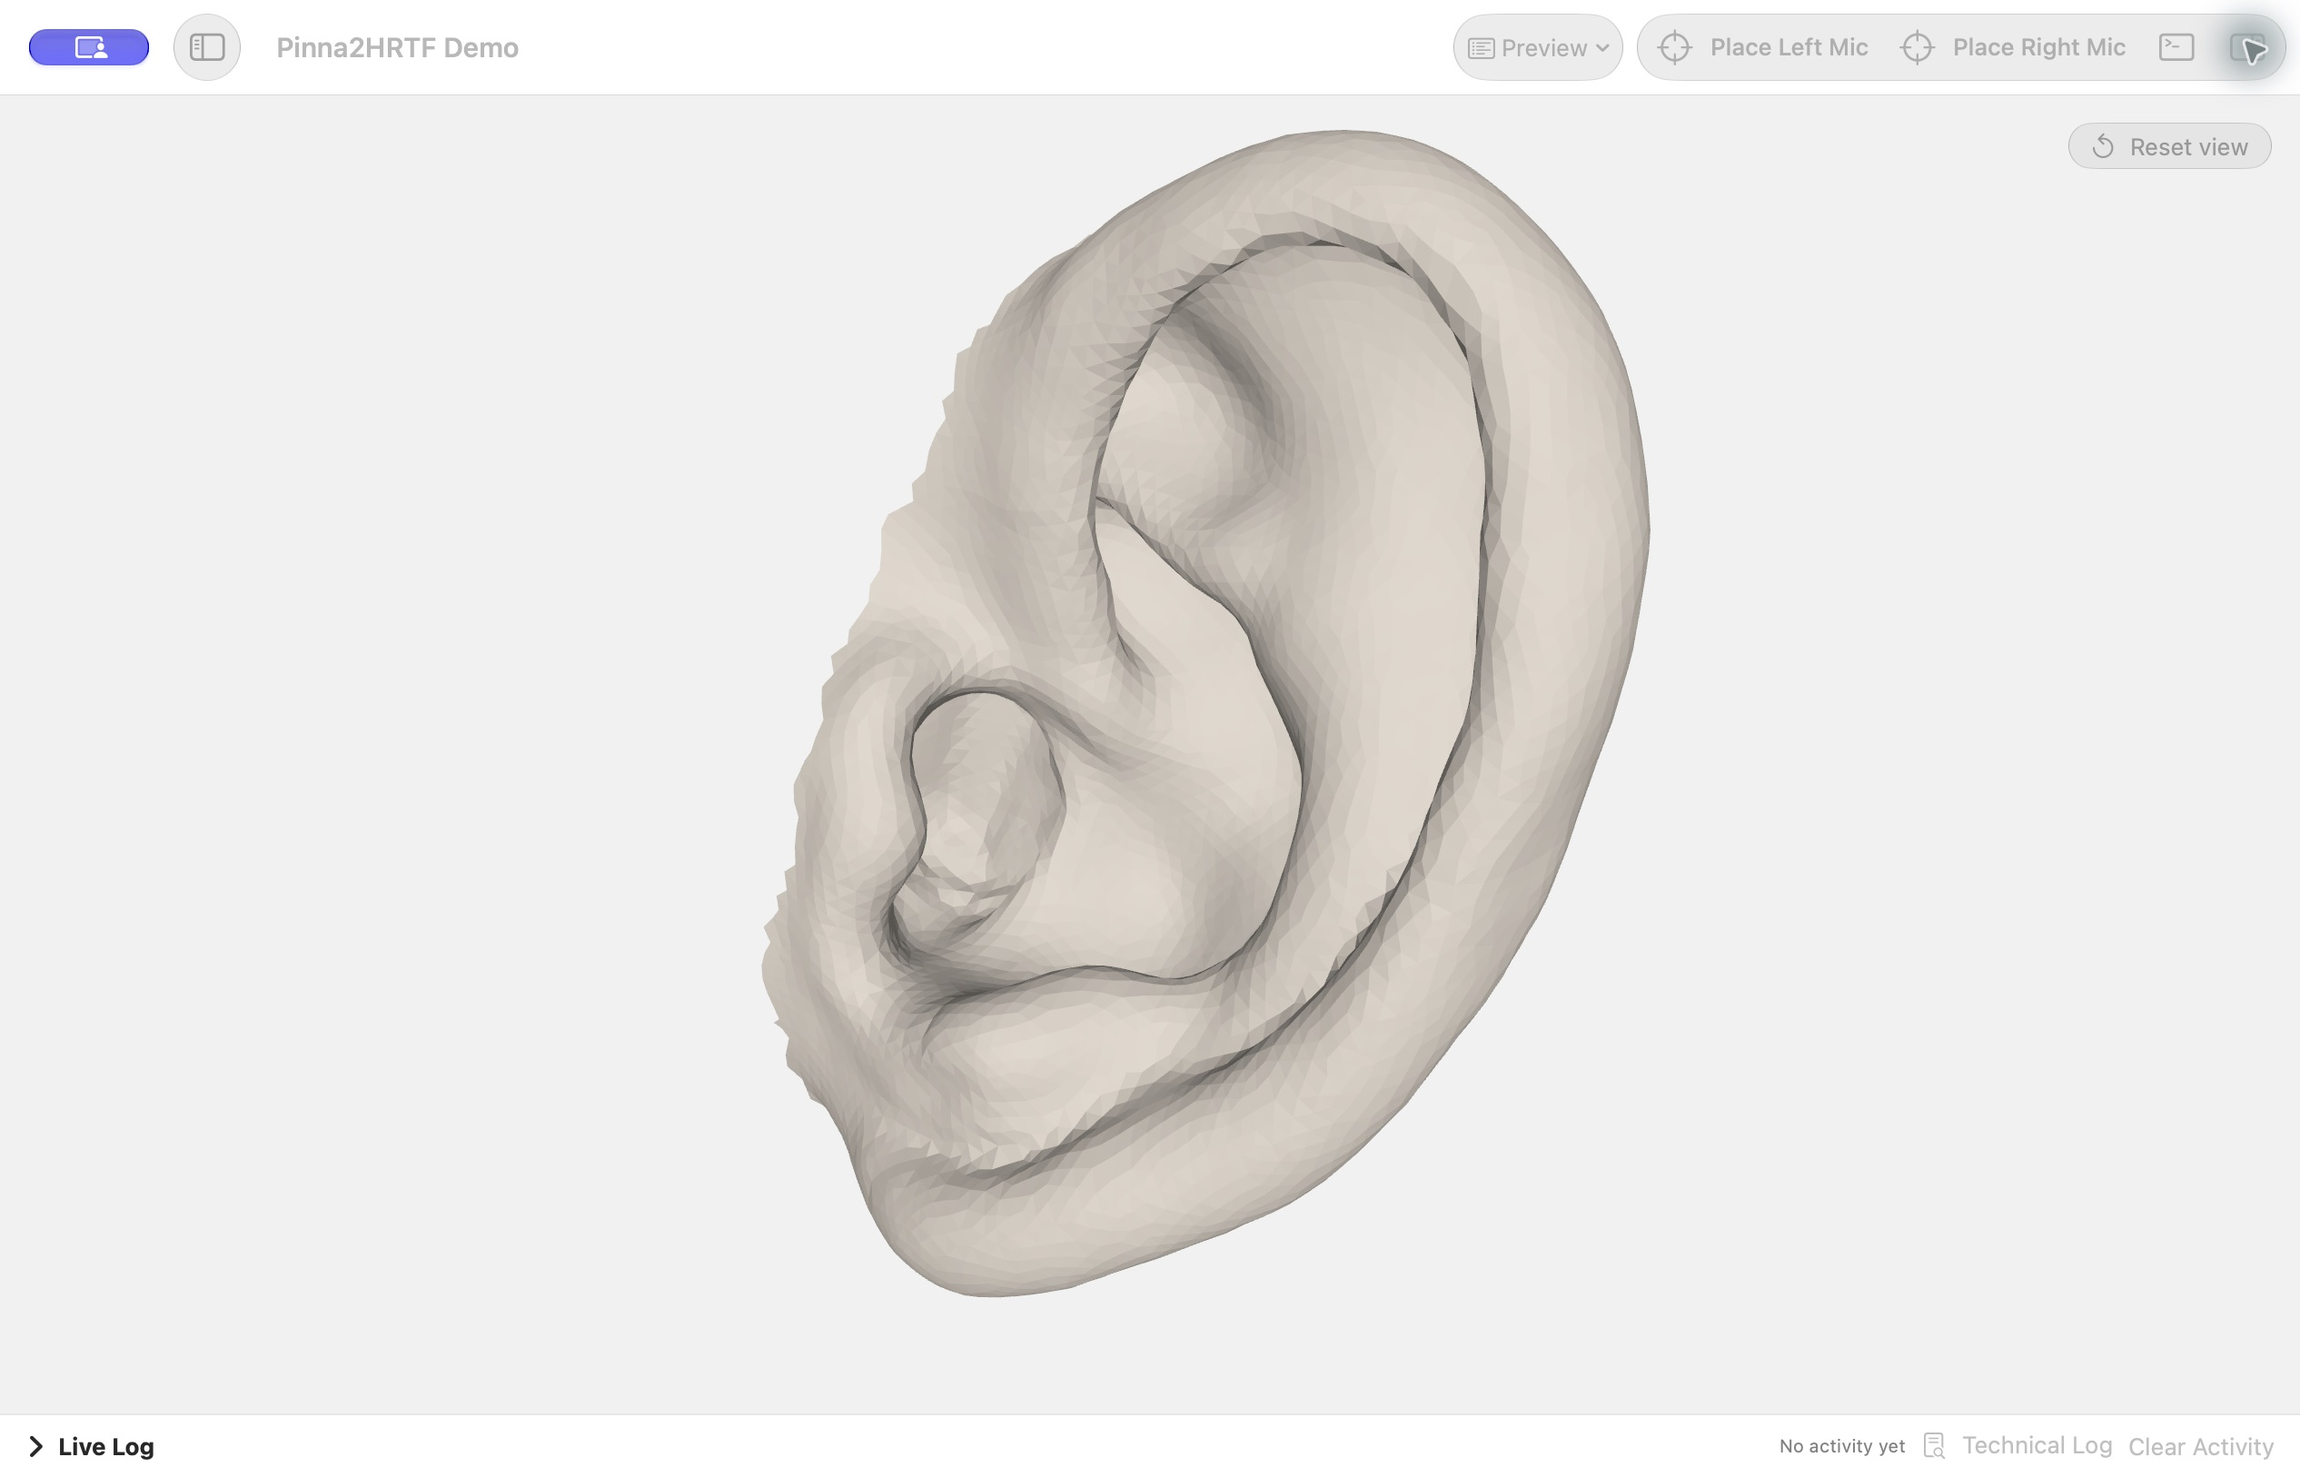
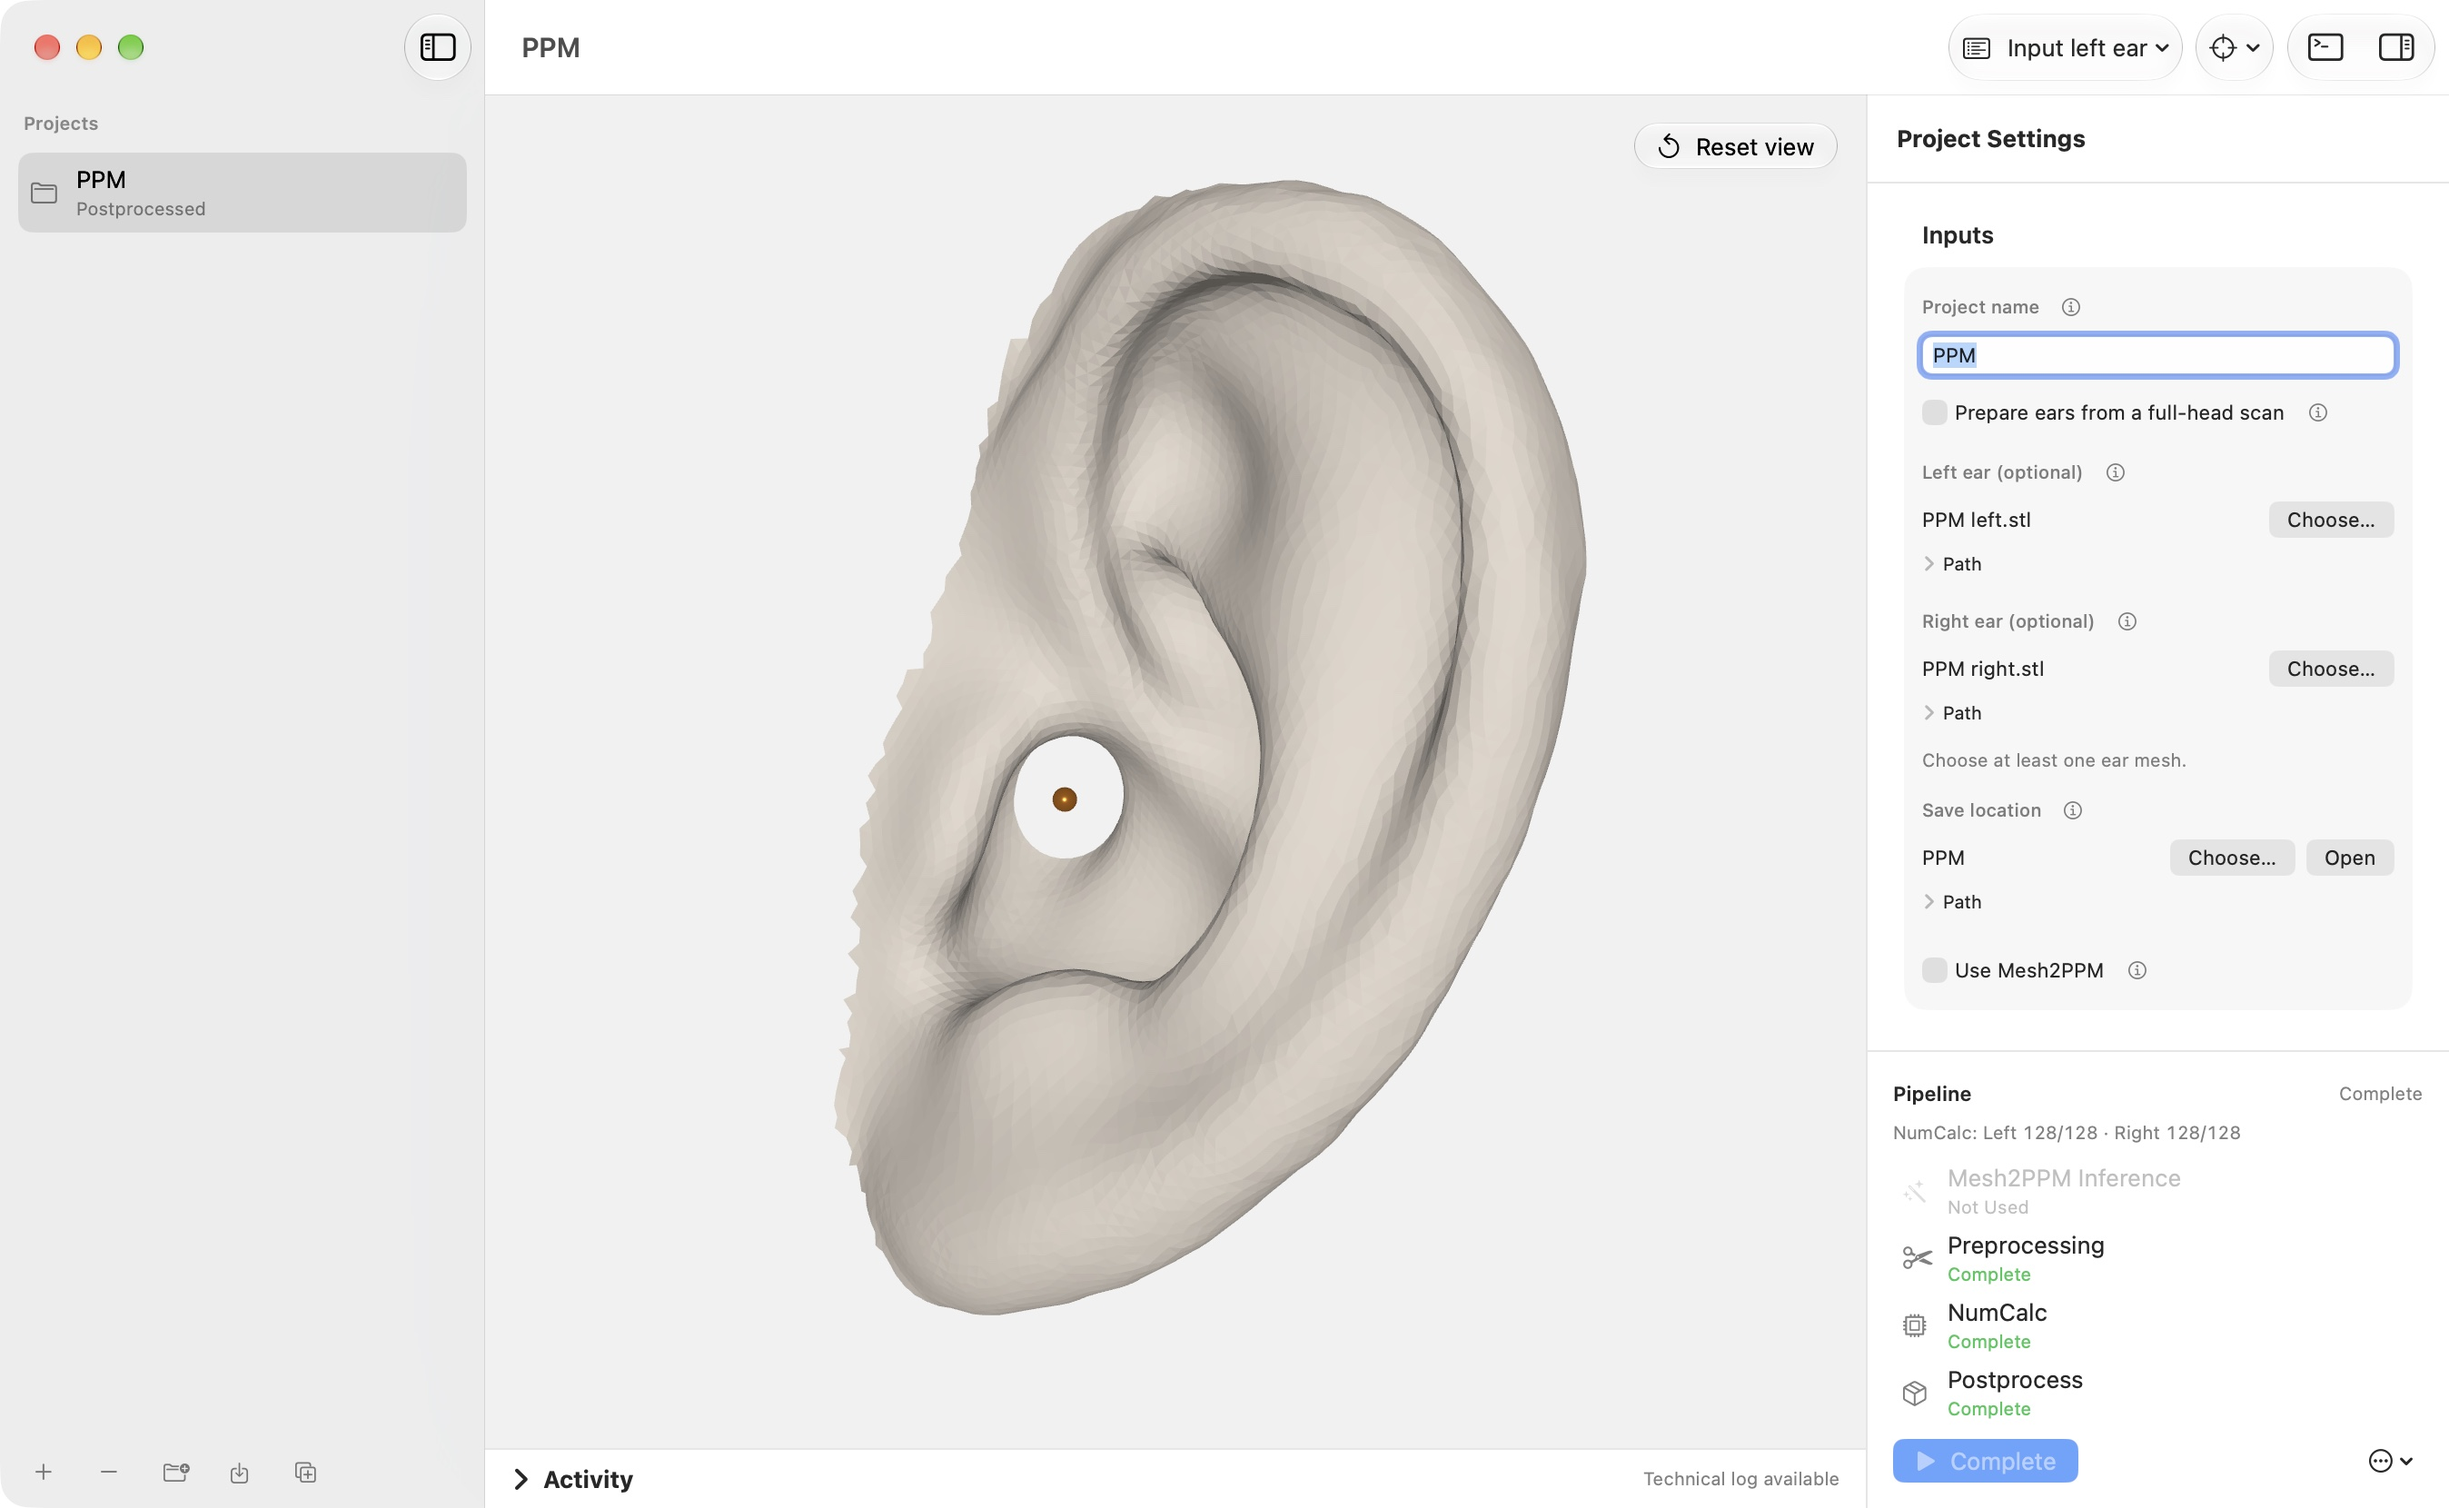
Add verified cursor-free app workspace screenshot

diff --git a/website/docs/desktop-app.html b/website/docs/desktop-app.html
@@ -21,6 +21,7 @@
       <h2 id="4-prepare-solve-and-export">4. Prepare, solve, and export</h2><ol><li><strong>Scan Preparation</strong> is used only when the project is configured with a full-head scan.</li><li><strong>Mesh2PPM Inference</strong> is optional.</li><li><strong>Preprocessing</strong> creates the simulation project geometry and setup files.</li><li><strong>NumCalc</strong> computes the acoustic field; local runs can limit parallel instances, CPU load, and memory where supported.</li><li><strong>SOFA export and postprocessing</strong> write acoustic results for downstream use.</li></ol>
       <p>Use Preview to inspect available meshes and plots. The live log reports stage activity; the technical log contains lower-level details. When placing a left or right microphone, click the desired location in the viewer and confirm with <strong>Done</strong>. Drag to rotate the view; press Escape to cancel placement.</p>
       <h2 id="5-keep-and-manage-results">5. Keep and manage results</h2><p>Generated inference, prepared-ear, simulation, and SOFA results are stored with the project. <strong>Reset Outputs</strong> removes generated files tracked as outputs while protecting configured inputs and saved manual ear edits. Check that important results are backed up before resetting.</p>
+<figure><img src="../assets/screenshots/desktop-workspace.jpg" alt="Pinna2HRTF showing a left ear mesh, project settings, and completed simulation stages, with standard macOS window controls" width="2022" height="1245" loading="lazy"><figcaption>The project workspace: ear geometry in the center, input settings and pipeline progress on the right.</figcaption></figure>
       <h2 id="choose-output-processing">Choose output processing</h2>
       <p><strong>Resampling</strong> changes the HRIR sample rate. <strong>Spatial HRTF upsampling</strong> adds source directions by interpolating between the simulated directions; it does not change the sample rate or HRIR length. Upsampled files are saved separately in <code>Upsampled/</code>, and the original exports are kept.</p>
       <p>Spatial upsampling has its own optional frontal level normalization. Check this separately from the normal postprocessing level offset when comparing output levels.</p>

diff --git a/website/docs/index.html b/website/docs/index.html
@@ -50,6 +50,7 @@
           <li><strong>Export.</strong> Run SOFA export and postprocessing after the simulation completes. Keep the project configuration with the results so you can identify how they were produced.</li>
         </ol>
         <div class="callout"><p><strong>What you get</strong></p><p>HRTFs describe the frequency response for each source direction. HRIRs describe the corresponding impulse responses. Both are exported in SOFA, a format for spatial acoustic data.</p></div>
+<figure><img src="../assets/screenshots/desktop-workspace.jpg" alt="Pinna2HRTF showing a left ear mesh, project settings, and completed simulation stages, with standard macOS window controls" width="2022" height="1245" loading="lazy"><figcaption>The project workspace: ear geometry in the center, input settings and pipeline progress on the right.</figcaption></figure>
         <h2 id="find-the-right-guide">Find the right guide</h2>
         <p><a href="desktop-app.html">Desktop app</a> walks through a project, from installation to results. <a href="cli.html">Python CLI</a> covers repeatable runs from YAML. <a href="building.html">Build from source</a> is for packaging the app yourself.</p>
         <h2 id="downloads-and-support">Downloads and support</h2>
